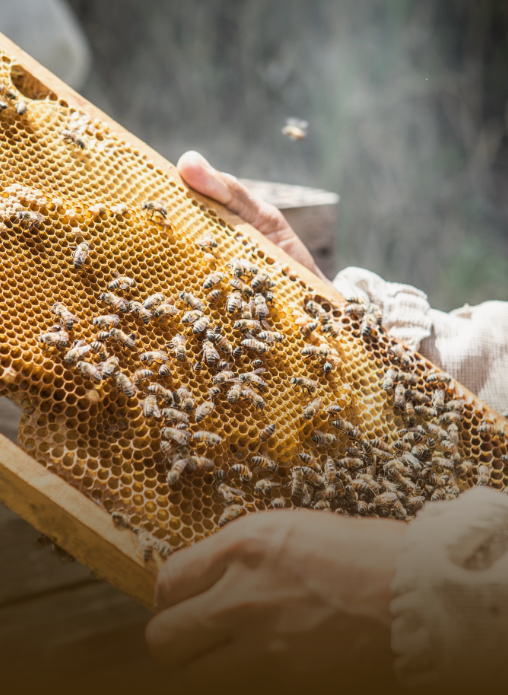
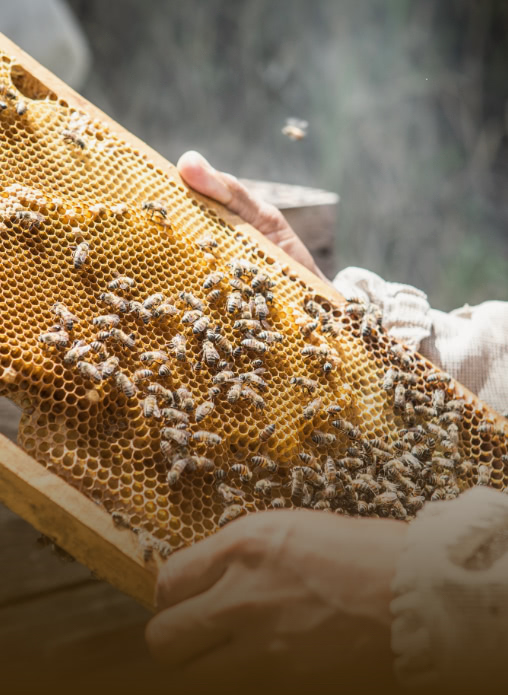
fotos optimizadas

diff --git a/noticias.html b/noticias.html
@@ -81,6 +81,9 @@
         <h2>Ultimas noticias</h2>
         <article>
             <h3>Noticia 1</h3>
+            <figure>
+                
+            </figure>
             <p>fecha</p>
         </article>
     </section>
